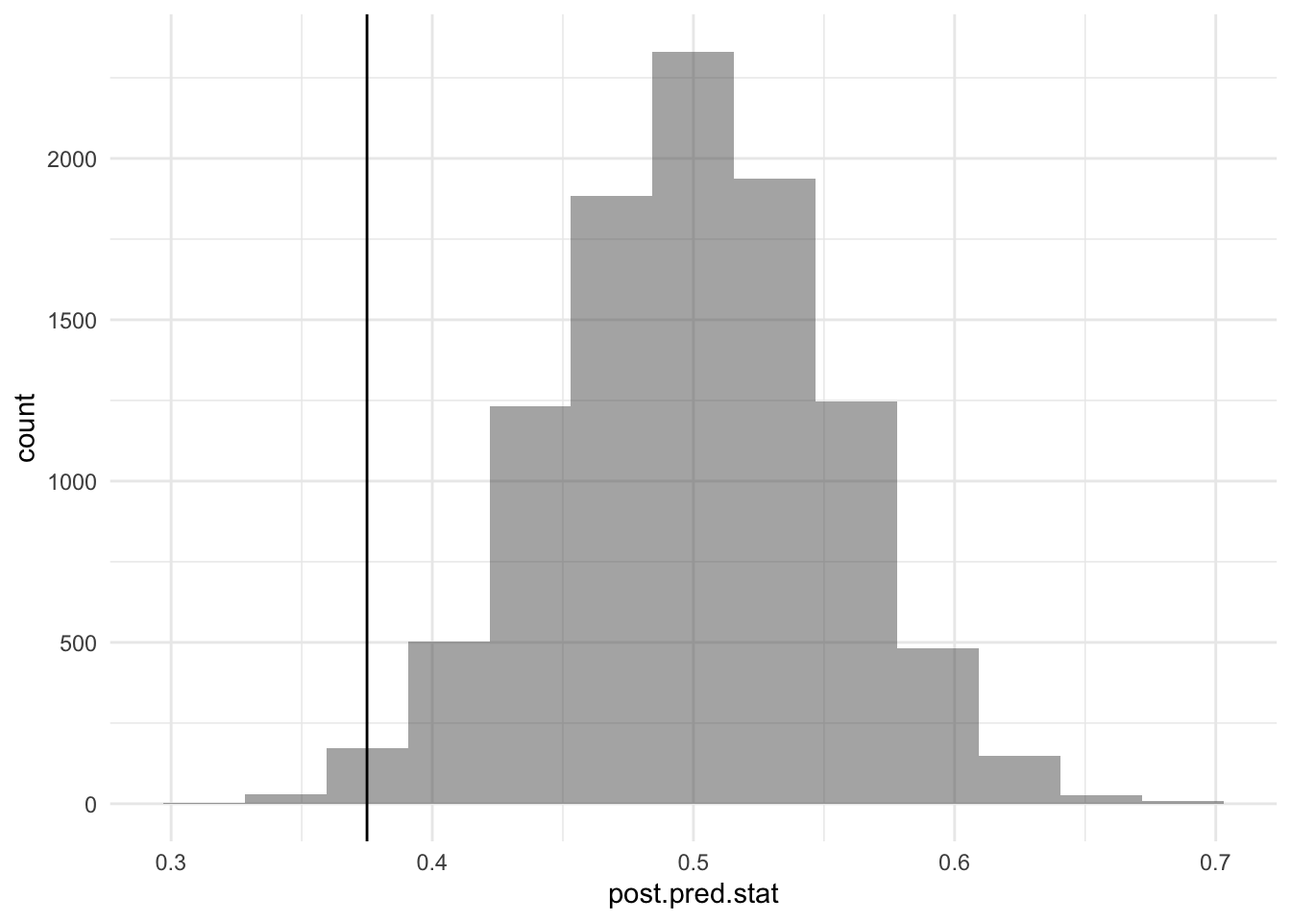
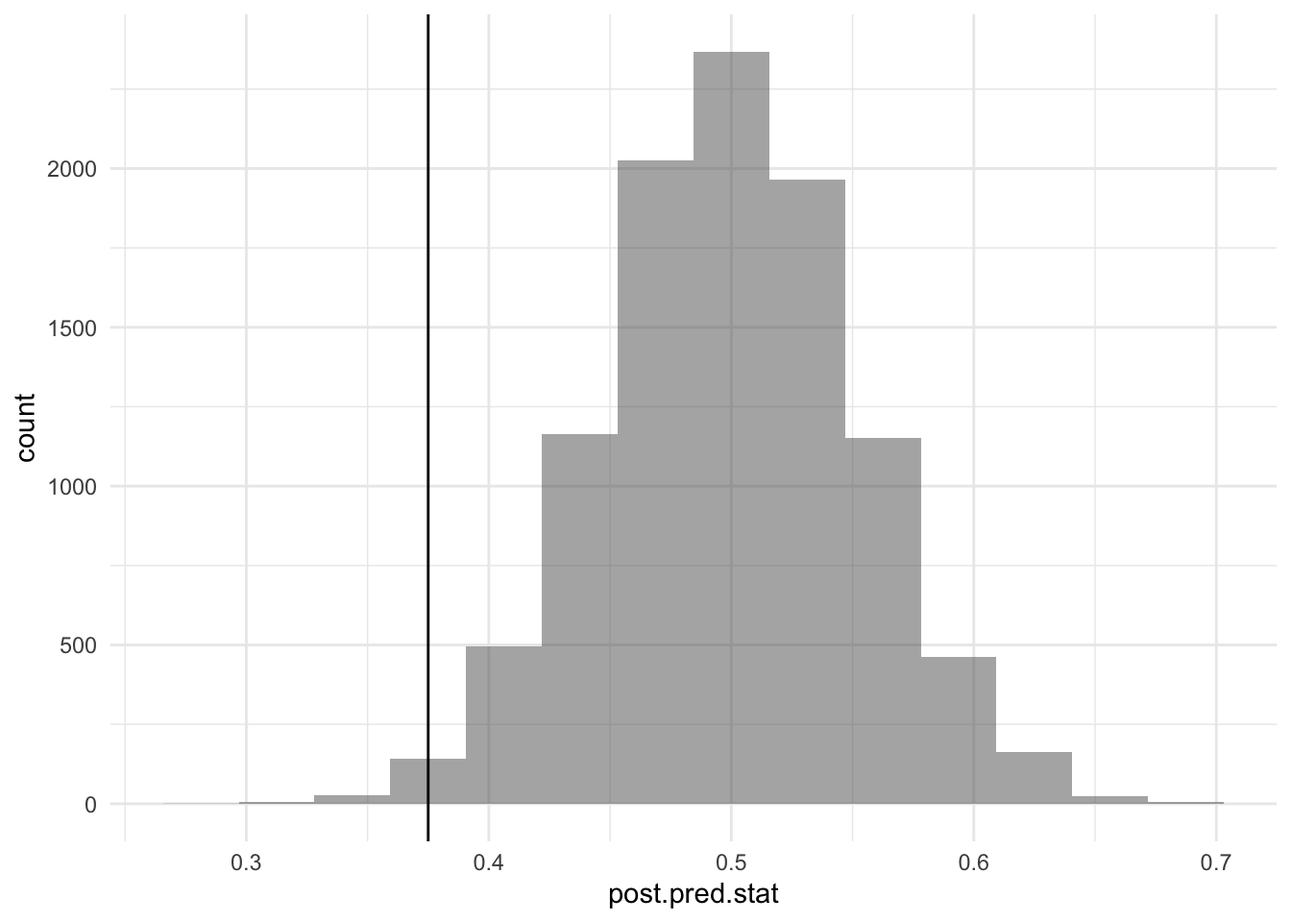
Built site for gh-pages

diff --git a/posts/p-value-screening.html b/posts/p-value-screening.html
@@ -235,14 +235,14 @@ div.csl-indent {
 <p><span class="math display">\[H_0^\tau: \max_i \mu_i \le \tau,\]</span></p>
 <p>which is really just the intersection of <span class="math inline">\(H_{0, i}^\tau: \mu_i \le \tau\)</span>. We are now in the realm of multiple testing!</p>
 <p>A basic idea to test <span class="math inline">\(H_0^\tau\)</span> is of course through Bonferroni correction. However, as we test <span class="math inline">\(H_0^\tau\)</span> for <span class="math inline">\(\tau\)</span> that is larger than many of the observations <span class="math inline">\(X_i\)</span>’s, few of these observations will provide evidence against the null but they count towards the multiplicity nonetheless. This is where we can aim to do better.</p>
-<p><span class="citation" data-cites="zhao_multiple_2018">Zhao et al. (<a href="#ref-zhao_multiple_2018" role="doc-biblioref">2018</a>)</span> suggested to use a <span class="math inline">\(\lambda\)</span> to screen out the <em>p</em>-values under <span class="math inline">\(\lambda\)</span>, divide the remaining <em>p</em>-values by <span class="math inline">\(\lambda\)</span>. (This idea was also rediscovered by <span class="citation" data-cites="ellis_gaining_2020">Ellis et al. (<a href="#ref-ellis_gaining_2020" role="doc-biblioref">2020</a>)</span>.) We have also rediscovered the same idea, and all three groups stated very similar conditions for the <em>p</em>-values, from “uniformly conservative” to “supreuniform”. This <span class="math inline">\(\lambda\)</span> can also be taken as a stopping time: <span class="math inline">\(\lambda\)</span> can go from 0 to 1, revealing any <em>p</em>-value greater than <span class="math inline">\(\lambda\)</span> and stopping based only on this information. It can be shown that this still controls the type I error rate, through a martingale argument not unlike the proof of Benjamini–Hochberg procedure.</p>
+<p><span class="citation" data-cites="zhao2018multiple">Zhao et al. (<a href="#ref-zhao2018multiple" role="doc-biblioref">2018</a>)</span> suggested to use a <span class="math inline">\(\lambda\)</span> to screen out the <em>p</em>-values under <span class="math inline">\(\lambda\)</span>, divide the remaining <em>p</em>-values by <span class="math inline">\(\lambda\)</span>. (This idea was also rediscovered by <span class="citation" data-cites="ellis2020gaining">Ellis et al. (<a href="#ref-ellis2020gaining" role="doc-biblioref">2020</a>)</span>.) We have also rediscovered the same idea, and all three groups stated very similar conditions for the <em>p</em>-values, from “uniformly conservative” to “supreuniform”. This <span class="math inline">\(\lambda\)</span> can also be taken as a stopping time: <span class="math inline">\(\lambda\)</span> can go from 0 to 1, revealing any <em>p</em>-value greater than <span class="math inline">\(\lambda\)</span> and stopping based only on this information. It can be shown that this still controls the type I error rate, through a martingale argument not unlike the proof of Benjamini–Hochberg procedure.</p>
 <p>But Zhao, Small and Su (2018) took an extra step in proposing a beautiful method for selecting this <span class="math inline">\(\lambda\)</span>: Note that the “saving” ones gets from performing the <em>p</em>-value screening is</p>
 <p><span class="math display">\[\frac{F(\lambda)}{\lambda},\]</span></p>
 <p>where <span class="math inline">\(F(\lambda)\)</span> is the averaged distribution of the <em>p</em>-values. The smaller the ratio above, the better the test will perform. Taking the derivatives give</p>
 <p><span class="math display">\[\frac{d}{\lambda} \frac{F(\lambda)}{\lambda} = \frac{F'(\lambda) \lambda - F(\lambda)}{\lambda^2},\]</span></p>
 <p>and a good choice of stopping is when there is no strong evidence that <span class="math inline">\(F'(\lambda) \lambda - F(\lambda) &gt; 0\)</span>. In general this should eventually happen, either when <span class="math inline">\(\lambda\)</span> gets uncomfortably close to 0, or when most of the true nulls have been removed.</p>
 <p>This approach is great for testing, but comes with two caveats when it comes to finding lower confidence bounds: - We do not know if this test is monotone: it is possible that the test rejects at <span class="math inline">\(\tau\)</span> yet accepts at some <span class="math inline">\(\tau' &lt; \tau\)</span>. This may happen if the multiplicity correction is substantially greater for testing <span class="math inline">\(H_0^{\tau'}\)</span> than at <span class="math inline">\(H_0^{\tau}\)</span>. - If we are not using the Zhao, Small and Su (2018) method for picking <span class="math inline">\(\lambda\)</span> and leaving this to an analyst’s discretion, the analyst may not be principled enough. They may be using a <span class="math inline">\(\lambda\)</span>, while wishing that they have used stopped earlier.</p>
-<p>The later point raises a question, similar to that in <span class="citation" data-cites="johari_always_2019">Johari et al. (<a href="#ref-johari_always_2019" role="doc-biblioref">2019</a>)</span> or “spotting time” as suggested by Aaditya Ramdas: Is it possible to allow an analyst stop anytime they want? If so, allowing an analyst to go backwards should come with a price. How do we make an appropriate correction?</p>
+<p>The later point raises a question, similar to that in <span class="citation" data-cites="johari2019always">Johari et al. (<a href="#ref-johari2019always" role="doc-biblioref">2019</a>)</span> or “spotting time” as suggested by Aaditya Ramdas: Is it possible to allow an analyst stop anytime they want? If so, allowing an analyst to go backwards should come with a price. How do we make an appropriate correction?</p>
 <p>Choosing a screening threshold at <span class="math inline">\(\lambda\)</span> is essentially the same as using</p>
 <p><span class="math display">\[n p_{(1)} \frac{F_n(\lambda)}{\lambda}\]</span></p>
 <p>as the test statistic and reject for small values. Here <span class="math inline">\(p_{(1)}\)</span> is the smallest <em>p</em>-value and <span class="math inline">\(F_n\)</span> is the empirical CDF of the <em>p</em>-values. What we want to do is essentially using the test statistic</p>
@@ -311,7 +311,7 @@ n p_{(1)} \min_{\lambda \ge p_{(k)}} \frac{F_n(\lambda)}{\lambda} &amp;=&amp; n 
 <span id="cb1-31"><a href="#cb1-31"></a>  <span class="fu">spotting.power</span>(<span class="fu">c</span>(<span class="fu">rep</span>(<span class="dv">1</span>, <span class="dv">20</span>), <span class="fu">rep</span>(<span class="sc">-</span><span class="dv">4</span>, <span class="dv">80</span>)))</span>
 <span id="cb1-32"><a href="#cb1-32"></a>)</span></code><button title="Copy to Clipboard" class="code-copy-button"><i class="bi"></i></button></pre></div>
 <div class="cell-output cell-output-stdout">
-<pre><code>[1] 0.0062 0.5740 0.7079 0.8851 0.8880 0.0408 0.0648 0.1226</code></pre>
+<pre><code>[1] 0.0076 0.5725 0.7113 0.8851 0.8873 0.0440 0.0621 0.1157</code></pre>
 </div>
 </div>
 <p>Since post condition we are really just using Bonferroni test, we will compare to those particular rows in Table 2 in Zhao, Small, Su (2018):</p>
@@ -387,14 +387,14 @@ n p_{(1)} \min_{\lambda \ge p_{(k)}} \frac{F_n(\lambda)}{\lambda} &amp;=&amp; n 
 
 
 <div id="quarto-appendix" class="default"><section class="quarto-appendix-contents" role="doc-bibliography"><h2 class="anchored quarto-appendix-heading">References</h2><div id="refs" class="references csl-bib-body hanging-indent" role="doc-bibliography">
-<div id="ref-ellis_gaining_2020" class="csl-entry" role="doc-biblioentry">
+<div id="ref-ellis2020gaining" class="csl-entry" role="doc-biblioentry">
 Ellis, J. L., Pecanka, J., and Goeman, J. J. (2020), <span>“Gaining power in multiple testing of interval hypotheses via conditionalization,”</span> <em>Biostatistics</em>, 21, e65–e79.
 </div>
-<div id="ref-johari_always_2019" class="csl-entry" role="doc-biblioentry">
-Johari, R., Pekelis, L., and Walsh, D. J. (2019), <span>“Always <span>Valid</span> <span>Inference</span>: <span>Bringing</span> <span>Sequential</span> <span>Analysis</span> to <span>A</span>/<span>B</span> <span>Testing</span>,”</span> arXiv. <a href="https://doi.org/10.48550/arXiv.1512.04922">https://doi.org/10.48550/arXiv.1512.04922</a>.
+<div id="ref-johari2019always" class="csl-entry" role="doc-biblioentry">
+Johari, R., Pekelis, L., and Walsh, D. J. (2019), <span>“Always <span>Valid Inference</span>: <span>Bringing Sequential Analysis</span> to <span>A</span>/<span>B Testing</span>,”</span> <span>arXiv</span>. <a href="https://doi.org/10.48550/arXiv.1512.04922">https://doi.org/10.48550/arXiv.1512.04922</a>.
 </div>
-<div id="ref-zhao_multiple_2018" class="csl-entry" role="doc-biblioentry">
-Zhao, Q., Small, D. S., and Su, W. J. (2018), <span>“<a href="https://www.tandfonline.com/doi/full/10.1080/01621459.2018.1497499">Multiple testing when many p-values are uniformly conservative, with application to testing qualitative interaction in educational interventions</a>,”</span> <em>Journal of the American Statistical Association</em>.
+<div id="ref-zhao2018multiple" class="csl-entry" role="doc-biblioentry">
+Zhao, Q., Small, D. S., and Su, W. J. (2018), <span>“Multiple testing when many p-values are uniformly conservative, with application to testing qualitative interaction in educational interventions,”</span> <em>Journal of the American Statistical Association</em>.
 </div>
 </div></section></div></main> <!-- /main -->
 <script id="quarto-html-after-body" type="application/javascript">

diff --git a/posts/cal-fire.html b/posts/cal-fire.html
@@ -228,7 +228,7 @@ div.csl-indent {
 
 </header>
 
-<p>I did not really much statistical training in my undergrad days, and my knowledge of statistics is pretty much confined to whatever grad level statistics classes Berkeley offered — 99% of those was frequentist — so I lack the Bayesian exposure that most statistics undergrad would have received. So when something slightly Bayesian (does empirical Bayes count?) showed up, I decided to teach myself using <span class="citation" data-cites="gelman_bayesian_2013">Gelman et al. (<a href="#ref-gelman_bayesian_2013" role="doc-biblioref">2013</a>)</span>.</p>
+<p>I did not really much statistical training in my undergrad days, and my knowledge of statistics is pretty much confined to whatever grad level statistics classes Berkeley offered — 99% of those was frequentist — so I lack the Bayesian exposure that most statistics undergrad would have received. So when something slightly Bayesian (does empirical Bayes count?) showed up, I decided to teach myself using <span class="citation" data-cites="gelman2013bayesian">Gelman et al. (<a href="#ref-gelman2013bayesian" role="doc-biblioref">2013</a>)</span>.</p>
 <p>It is hard to learn something new without any examples, and I happen to stumble upon this tweet:</p>
 <blockquote class="twitter-tweet tw-align-center blockquote">
 <p lang="en" dir="ltr">
@@ -350,15 +350,15 @@ Attaching package: 'rstan'</code></pre>
 <span id="cb17-23"><a href="#cb17-23"></a><span class="fu">summary</span>(fit)<span class="sc">$</span>summary</span></code><button title="Copy to Clipboard" class="code-copy-button"><i class="bi"></i></button></pre></div>
 <div class="cell-output cell-output-stdout">
 <pre><code>             mean      se_mean           sd        2.5%         25%         50%
-alpha 231889.3659 2.555799e+03 156429.48770 -75299.9472 129408.0310 233049.2940
-beta   25733.5127 1.404781e+02   8596.47616   9115.2713  20055.5198  25703.4571
-sigma 445924.8695 9.305492e+02  61220.74160 346959.5348 403589.6614 438579.5227
-lp__    -418.5052 2.221279e-02      1.29507   -421.9191   -419.0704   -418.1779
+alpha 240006.8645 2.539418e+03 1.551917e+05 -68013.3021 137908.1746 239675.9123
+beta   25350.8491 1.403148e+02 8.616489e+03   8211.8978  19674.1566  25370.7932
+sigma 447205.8818 8.786446e+02 6.045076e+04 348075.7837 404490.9808 440528.5524
+lp__    -418.5083 2.070267e-02 1.255783e+00   -421.7157   -419.1005   -418.1869
               75%       97.5%    n_eff      Rhat
-alpha 334325.6033 540090.1390 3746.138 1.0012539
-beta   31280.1606  42845.3024 3744.758 1.0010772
-sigma 480267.7213 585712.6433 4328.311 0.9996836
-lp__    -417.5716   -417.0555 3399.229 0.9998490</code></pre>
+alpha 344199.6611 552040.4477 3734.813 0.9997395
+beta   31137.5510  42277.3893 3770.976 0.9999660
+sigma 481952.3839 586203.5716 4733.442 1.0006884
+lp__    -417.5703   -417.0499 3679.393 1.0005287</code></pre>
 </div>
 </div>
 <p>Since all Bayesians do is do posterior draws, I don’t find it hard to understand the result. But what matters the most to me is that the data is fit well. As BDA would suggest, I should do a posterior predictive check, specifically something that would demonstrate my suspicion that linear model isn’t a good fit. By looking at the time series, I would guess that there are fewer positive residuals than negative ones. So I used the proportion of positive residuals after OLS as the test statistic. Embarrassingly it took me a long time to realize how to do a posterior predictive check for regression, the most basic example in Chapter 14 surprisingly did not emphasize this part.</p>
@@ -417,16 +417,16 @@ lp__    -417.5716   -417.0555 3399.229 0.9998490</code></pre>
 <span id="cb20-22"><a href="#cb20-22"></a></span>
 <span id="cb20-23"><a href="#cb20-23"></a><span class="fu">summary</span>(fit)<span class="sc">$</span>summary</span></code><button title="Copy to Clipboard" class="code-copy-button"><i class="bi"></i></button></pre></div>
 <div class="cell-output cell-output-stdout">
-<pre><code>             mean     se_mean         sd         2.5%         25%         50%
-alpha 12.41544777 0.004275162 0.27007098  11.87620393 12.23849277 12.41825462
-beta   0.04184613 0.000233964 0.01484579   0.01267914  0.03206184  0.04173671
-sigma  0.77212093 0.001529535 0.10615253   0.60072694  0.69614489  0.76017587
-lp__  -7.16476408 0.022649943 1.29577329 -10.55090776 -7.74246366 -6.82755529
-             75%       97.5%    n_eff     Rhat
-alpha 12.5960728 12.93468072 3990.716 1.000362
-beta   0.0515425  0.07137482 4026.324 1.000314
-sigma  0.8361836  1.01335665 4816.612 1.000495
-lp__  -6.2277974 -5.69104645 3272.833 1.001769</code></pre>
+<pre><code>             mean      se_mean         sd         2.5%         25%        50%
+alpha 12.41908326 0.0043276351 0.27139695  11.89028656 12.23991697 12.4138605
+beta   0.04168707 0.0002393191 0.01502463   0.01160145  0.03212815  0.0418301
+sigma  0.76934629 0.0015107737 0.10299026   0.60040099  0.69765468  0.7585032
+lp__  -7.16169509 0.0235539924 1.33780557 -10.65728017 -7.71969447 -6.8090985
+              75%       97.5%    n_eff     Rhat
+alpha 12.59937319 12.95217175 3932.861 1.000875
+beta   0.05154402  0.07100689 3941.421 1.000715
+sigma  0.82879300  0.99799036 4647.222 1.000257
+lp__  -6.20961693 -5.68965437 3225.945 1.000177</code></pre>
 </div>
 </div>
 <p>And we perform the same check to see if the residuals are symmetric.</p>
@@ -493,8 +493,8 @@ lp__  -6.2277974 -5.69104645 3272.833 1.001769</code></pre>
 
 
 <div id="quarto-appendix" class="default"><section class="quarto-appendix-contents" role="doc-bibliography"><h2 class="anchored quarto-appendix-heading">References</h2><div id="refs" class="references csl-bib-body hanging-indent" role="doc-bibliography">
-<div id="ref-gelman_bayesian_2013" class="csl-entry" role="doc-biblioentry">
-Gelman, A., Carlin, J. B., Stern, H. S., Dunson, D. B., Vehtari, A., and Rubin, D. B. (2013), <em>Bayesian <span>Data</span> <span>Analysis</span></em>.
+<div id="ref-gelman2013bayesian" class="csl-entry" role="doc-biblioentry">
+Gelman, A., Carlin, J. B., Stern, H. S., Dunson, D. B., Vehtari, A., and Rubin, D. B. (2013), <em>Bayesian <span>Data Analysis</span></em>.
 </div>
 </div></section></div></main> <!-- /main -->
 <script id="quarto-html-after-body" type="application/javascript">

diff --git a/posts/moment-conditions.html b/posts/moment-conditions.html
@@ -173,7 +173,7 @@ div.csl-indent {
 <p>For the second answer, I still want to know if the approximation is good. Philosophically, this is similar to doing high-dimensional linear regression — when we have <span class="math inline">\(n = 1000\)</span> and <span class="math inline">\(p = 100\)</span>, should we be looking at results on <span class="math inline">\(p = O(n)\)</span> or <span class="math inline">\(p = O(1)\)</span>? The idea here is the same: when we look at our data, we can sometimes tell that the normal approximation is going to fail if the top 10% of your sample accounts adds up to 90% of the sum. Can we have some heuristic that these moment conditions are going to fail?</p>
 <p>More generally, I want to be able to look “empirically check” for moment conditions that look like</p>
 <p><span class="math display">\[\frac{1}{n} \sum_{i=1}^n |X_i|^\beta = o(n^\gamma).\]</span></p>
-<p>In most cases I’ve encountered, <span class="math inline">\(\beta\)</span> would be an integer, and I am including a <span class="math inline">\(\gamma\)</span> there as well to include cases like <span class="citation" data-cites="guo_generalized_2020">Guo and Basse (<a href="#ref-guo_generalized_2020" role="doc-biblioref">2020</a>)</span>, Example 1:</p>
+<p>In most cases I’ve encountered, <span class="math inline">\(\beta\)</span> would be an integer, and I am including a <span class="math inline">\(\gamma\)</span> there as well to include cases like <span class="citation" data-cites="guo2020generalized">Guo and Basse (<a href="#ref-guo2020generalized" role="doc-biblioref">2020</a>)</span>, Example 1:</p>
 <p><span class="math display">\[\frac{1}{n} \sum_{i=1}^n X_i^4 = o(n).\]</span></p>
 <p>Below are back-of-the-envelope calculations that I’ve been using recently to reason around these conditions. We are going to start with the stable distribution, with tail index <span class="math inline">\(\alpha\)</span>. Recall that if <span class="math inline">\(X, Y \sim \text{Stable}(\alpha)\)</span> independently, then <span class="math inline">\(X + Y \sim 2^{1/\alpha} \cdot \text{Stable}(\alpha)\)</span>. Now in cases where the generalized Central Limit Theorem works, we will be able to get, with some scaling and some choice of <span class="math inline">\(\alpha\)</span>,</p>
 <p><span class="math display">\[\frac{1}{n/2} \sum_{i=1}^{n/2} |X_i|^\beta, \frac{1}{n/2} \sum_{i=n/2 + 1}^{n} |X_i|^\beta \sim \text{Stable}(\alpha),\]</span></p>
@@ -183,17 +183,17 @@ div.csl-indent {
 <p><span class="math display">\[\frac{1}{n} \sum_{i=1}^n |X_i|^\beta = O_p((2^{1/\alpha - 1})^{\log_2 n}) = O_p(n^{1/\alpha - 1}).\]</span></p>
 <p>So for example, in the case of Guo and Basse (2021), Example 1, we will need <span class="math inline">\(X_i^\beta\)</span> to be no more heavy-tailed than <span class="math inline">\(\alpha = 1/2\)</span>. But now, since <span class="math inline">\(X \sim \text{Stable}(\alpha)\)</span> is roughly the boundary where <span class="math inline">\(\mathbb{E}[X^\alpha]\)</span> exists, Guo and Basse (2021) should be roughly the same as asking the tail index to be at least 2, pretty much the same as asking that Central Limit Theorem applies.</p>
 <p>I think the heuristics above can be made a bit more rigorous too, probably through <span class="math inline">\(\mathbb{P}[X &gt; n^a] &gt; n^{-b}\)</span> for some choice of <span class="math inline">\(a\)</span> and <span class="math inline">\(b\)</span>, these choices of <span class="math inline">\(a\)</span> and <span class="math inline">\(b\)</span> can perhaps be compared to a generalized Pareto distribution.</p>
-<p>Finally to check this, without getting into the subtleties of Hill estimator or <span class="citation" data-cites="clauset_power-law_2009">Clauset et al. (<a href="#ref-clauset_power-law_2009" role="doc-biblioref">2009</a>)</span>, we can look at some high quantiles and take the ratio. For example, a rough estimate of the tail index would be <span class="math inline">\(1 / \log_{10}(q_{0.999} / q_{0.99})\)</span>.</p>
+<p>Finally to check this, without getting into the subtleties of Hill estimator or <span class="citation" data-cites="clauset2009powerlaw">Clauset et al. (<a href="#ref-clauset2009powerlaw" role="doc-biblioref">2009</a>)</span>, we can look at some high quantiles and take the ratio. For example, a rough estimate of the tail index would be <span class="math inline">\(1 / \log_{10}(q_{0.999} / q_{0.99})\)</span>.</p>
 
 
 
 
 <div id="quarto-appendix" class="default"><section class="quarto-appendix-contents" role="doc-bibliography"><h2 class="anchored quarto-appendix-heading">References</h2><div id="refs" class="references csl-bib-body hanging-indent" role="doc-bibliography">
-<div id="ref-clauset_power-law_2009" class="csl-entry" role="doc-biblioentry">
-Clauset, A., Shalizi, C. R., and Newman, M. E. J. (2009), <span>“Power-<span>Law</span> <span>Distributions</span> in <span>Empirical</span> <span>Data</span>,”</span> <em>SIAM Review</em>, 51, 661–703. <a href="https://doi.org/10.1137/070710111">https://doi.org/10.1137/070710111</a>.
+<div id="ref-clauset2009powerlaw" class="csl-entry" role="doc-biblioentry">
+Clauset, A., Shalizi, C. R., and Newman, M. E. J. (2009), <span>“Power-<span>Law Distributions</span> in <span>Empirical Data</span>,”</span> <em>SIAM Review</em>, 51, 661–703. <a href="https://doi.org/10.1137/070710111">https://doi.org/10.1137/070710111</a>.
 </div>
-<div id="ref-guo_generalized_2020" class="csl-entry" role="doc-biblioentry">
-Guo, K., and Basse, G. (2020), <span>“<a href="http://arxiv.org/abs/2004.11615">The <span>Generalized</span> <span>Oaxaca</span>-<span>Blinder</span> <span>Estimator</span></a>.”</span>
+<div id="ref-guo2020generalized" class="csl-entry" role="doc-biblioentry">
+Guo, K., and Basse, G. (2020), <span>“The <span>Generalized Oaxaca-Blinder Estimator</span>.”</span> <a href="https://doi.org/10.1080/01621459.2021.1941053">https://doi.org/10.1080/01621459.2021.1941053</a>.
 </div>
 </div></section></div></main> <!-- /main -->
 <script id="quarto-html-after-body" type="application/javascript">

diff --git a/posts/asymptotic-selective-inference.html b/posts/asymptotic-selective-inference.html
@@ -229,13 +229,13 @@ div.csl-indent {
 
 </header>
 
-<p>Following a paper by <span class="citation" data-cites="lee_exact_2016">Lee et al. (<a href="#ref-lee_exact_2016" role="doc-biblioref">2016</a>)</span> on the correcting for the selection bias after lasso-based selection, a natural progression is to consider general penalized likelihood selections. In GLM, we are at least provided with a sufficient statistics, but this would not be the case in a more general likelihood setting, rendering the description of the selection event a lot more blurry.</p>
+<p>Following a paper by <span class="citation" data-cites="lee2016exact">Lee et al. (<a href="#ref-lee2016exact" role="doc-biblioref">2016</a>)</span> on the correcting for the selection bias after lasso-based selection, a natural progression is to consider general penalized likelihood selections. In GLM, we are at least provided with a sufficient statistics, but this would not be the case in a more general likelihood setting, rendering the description of the selection event a lot more blurry.</p>
 <p>Most specifically, the set up is as follows: we have a matrix <span class="math inline">\(X\)</span> consisting of <span class="math inline">\(n\)</span> row of covariates, <span class="math inline">\(Y\)</span> a vector consisting of all the responses. We assume the model, given by the log-likelihood below,</p>
 <p><span class="math display">\[\sum_{i=1}^n \ell(\theta_n; Y_n, X_n).\]</span></p>
 <p>Here we will not move into high-dimensional regime and thus assumes <span class="math inline">\(\theta_n\)</span> to have dimension <span class="math display">\[d\]</span>. Subsequently, we perform selection based on maximizing</p>
 <p><span class="math display">\[\sum_{i=1}^n \ell(\theta_n; Y_n, X_n) - \lambda_n \|\theta_n\|_1,\]</span></p>
 <p>with some tuning parameter <span class="math inline">\(\lambda_n\)</span>.</p>
-<p>Around three weeks ago, Will and I came up with a way to tackle this problem — together with a non-exhaustive, non-optimized list of conditions needed. Unfortunately shortly after Will discovered a paper by <span class="citation" data-cites="taylor_postselection_2017">Taylor and Tibshirani (<a href="#ref-taylor_postselection_2017" role="doc-biblioref">2017</a>)</span> that arrived at an almost identical solution. While our result might no longer be groundbreaking, we hope that this post will provide a different perspective from Taylor and Tibshirani (2017), and assist anyone who happens to also be reading Taylor and Tibshirani (2017).</p>
+<p>Around three weeks ago, Will and I came up with a way to tackle this problem — together with a non-exhaustive, non-optimized list of conditions needed. Unfortunately shortly after Will discovered a paper by <span class="citation" data-cites="taylor2017post">Taylor and Tibshirani (<a href="#ref-taylor2017post" role="doc-biblioref">2017</a>)</span> that arrived at an almost identical solution. While our result might no longer be groundbreaking, we hope that this post will provide a different perspective from Taylor and Tibshirani (2017), and assist anyone who happens to also be reading Taylor and Tibshirani (2017).</p>
 <p>The problem has two main hurdles: - approximating the selection event in a reasonable yet theoretically valid manner; - choosing a test statistic with a nice asymptotic distribution.</p>
 <p>We can make both decisions at once by considering the selection event. In GLM, with a sufficient statistic, the selection event will always be measurable with respect to this sufficient statistic. This measurability requirement results in fuzzy edges if we plot out the selection event based on a non-sufficient statistic.</p>
 <p>We don’t have this sufficient statistic anymore in a general likelihood setting. Conventionally, both the score at a fixed parameter and the MLE are thought of as ‘asymptotically sufficient’ without a proper definition. Since we are looking into asymptotics anyways, these two statistic seems perfect for our use. A bonus is that their asymptotic distributions are well known.</p>
@@ -417,11 +417,11 @@ div.csl-indent {
 
 
 <div id="quarto-appendix" class="default"><section class="quarto-appendix-contents" role="doc-bibliography"><h2 class="anchored quarto-appendix-heading">References</h2><div id="refs" class="references csl-bib-body hanging-indent" role="doc-bibliography">
-<div id="ref-lee_exact_2016" class="csl-entry" role="doc-biblioentry">
-Lee, J. D., Sun, D. L., Sun, Y., and Taylor, J. E. (2016), <span>“<a href="http://projecteuclid.org/euclid.aos/1460381681">Exact post-selection inference, with application to the lasso</a>,”</span> <em>The Annals of Statistics</em>, 44, 907–927.
+<div id="ref-lee2016exact" class="csl-entry" role="doc-biblioentry">
+Lee, J. D., Sun, D. L., Sun, Y., and Taylor, J. E. (2016), <span>“Exact post-selection inference, with application to the lasso,”</span> <em>The Annals of Statistics</em>, 44, 907–927.
 </div>
-<div id="ref-taylor_postselection_2017" class="csl-entry" role="doc-biblioentry">
-Taylor, J. E., and Tibshirani, R. J. (2017), <span>“<a href="http://onlinelibrary.wiley.com/doi/10.1002/cjs.11313/full">Post‐selection inference for ℓ1‐penalized likelihood models</a>,”</span> <em>The Canadian Journal of Statistics</em>, 19, 1212.
+<div id="ref-taylor2017post" class="csl-entry" role="doc-biblioentry">
+Taylor, J. E., and Tibshirani, R. J. (2017), <span>“Post-selection inference for <span><span class="math inline">\(\mathscr{l}\)</span></span>1-penalized likelihood models,”</span> <em>The Canadian Journal of Statistics</em>, 19, 1212.
 </div>
 </div></section></div></main> <!-- /main -->
 <script id="quarto-html-after-body" type="application/javascript">

diff --git a/posts/binomial-ranking.html b/posts/binomial-ranking.html
@@ -246,7 +246,7 @@ div.csl-indent {
 </section>
 <section id="setup" class="level2">
 <h2 class="anchored" data-anchor-id="setup">Setup</h2>
-<p>Of course there are many other factors, but we can consider an idealized model where the number of patients, <span class="math inline">\(n_i\)</span> in each country is predetermined, but the number of deaths, <span class="math inline">\(X_i\)</span> is random and comes from a binomial draw: <span class="math display">\[X_i \sim \text{Binomial}(n_i, p_i),\]</span> where <span class="math inline">\(p_i\)</span> represent the chance of a patient dying in region <span class="math inline">\(i\)</span>. We would then want to provide simultaneous confidence intervals for the rank of region <span class="math inline">\(i\)</span>, <span class="math inline">\(r_i\)</span>, as defined in <span class="citation" data-cites="al_mohamad_simultaneous_2022">Al Mohamad et al. (<a href="#ref-al_mohamad_simultaneous_2022" role="doc-biblioref">2022</a>)</span>: <span class="math display">\[r_i = 1 + \#\{j \ne i: p_j &lt; p_i\}\]</span> There is an obvious Bayesian way to achieve this. By setting up a reasonable prior, we can perform posterior draws of <span class="math inline">\(p_i\)</span> and search for confidence intervals of ranks that covers <span class="math inline">\((1 - \alpha)\)</span> of the posterior draws. Naturally this can be extended to an empirical Bayes way as well, as suggested in one of the comments in <a href="https://stats.stackexchange.com/questions/157437/ranking-based-on-binomial-data-example-website-conversions">this Cross Validated thread</a>. We want to focus on strict frequentist methods here.</p>
+<p>Of course there are many other factors, but we can consider an idealized model where the number of patients, <span class="math inline">\(n_i\)</span> in each country is predetermined, but the number of deaths, <span class="math inline">\(X_i\)</span> is random and comes from a binomial draw: <span class="math display">\[X_i \sim \text{Binomial}(n_i, p_i),\]</span> where <span class="math inline">\(p_i\)</span> represent the chance of a patient dying in region <span class="math inline">\(i\)</span>. We would then want to provide simultaneous confidence intervals for the rank of region <span class="math inline">\(i\)</span>, <span class="math inline">\(r_i\)</span>, as defined in <span class="citation" data-cites="almohamad2022simultaneous">Al Mohamad et al. (<a href="#ref-almohamad2022simultaneous" role="doc-biblioref">2022</a>)</span>: <span class="math display">\[r_i = 1 + \#\{j \ne i: p_j &lt; p_i\}\]</span> There is an obvious Bayesian way to achieve this. By setting up a reasonable prior, we can perform posterior draws of <span class="math inline">\(p_i\)</span> and search for confidence intervals of ranks that covers <span class="math inline">\((1 - \alpha)\)</span> of the posterior draws. Naturally this can be extended to an empirical Bayes way as well, as suggested in one of the comments in <a href="https://stats.stackexchange.com/questions/157437/ranking-based-on-binomial-data-example-website-conversions">this Cross Validated thread</a>. We want to focus on strict frequentist methods here.</p>
 </section>
 <section id="data" class="level2">
 <h2 class="anchored" data-anchor-id="data">Data</h2>
@@ -1098,8 +1098,8 @@ div.csl-indent {
 </section>
 
 <div id="quarto-appendix" class="default"><section class="quarto-appendix-contents" role="doc-bibliography"><h2 class="anchored quarto-appendix-heading">References</h2><div id="refs" class="references csl-bib-body hanging-indent" role="doc-bibliography">
-<div id="ref-al_mohamad_simultaneous_2022" class="csl-entry" role="doc-biblioentry">
-Al Mohamad, D., Goeman, J. J., and Zwet, E. W. van (2022), <span>“Simultaneous <span>Confidence</span> <span>Intervals</span> for <span>Ranks</span> <span>With</span> <span>Application</span> to <span>Ranking</span> <span>Institutions</span>,”</span> <em>Biometric Methodology</em>, 78, 238–247. <a href="https://doi.org/10.1111/biom.13419">https://doi.org/10.1111/biom.13419</a>.
+<div id="ref-almohamad2022simultaneous" class="csl-entry" role="doc-biblioentry">
+Al Mohamad, D., Goeman, J. J., and van Zwet, E. W. (2022), <span>“Simultaneous <span>Confidence Intervals</span> for <span>Ranks With Application</span> to <span>Ranking Institutions</span>,”</span> <em>Biometric Methodology</em>, 78, 238–247. <a href="https://doi.org/10.1111/biom.13419">https://doi.org/10.1111/biom.13419</a>.
 </div>
 </div></section></div></main> <!-- /main -->
 <script id="quarto-html-after-body" type="application/javascript">

diff --git a/posts.html b/posts.html
@@ -161,7 +161,7 @@ ul.task-list li input[type="checkbox"] {
 
 <div class="quarto-listing quarto-listing-container-default" id="listing-listing">
 <div class="list quarto-listing-default">
-<div class="quarto-post image-right" data-index="0" data-categories="multiple testing" data-listing-date-sort="1661583600000" data-listing-file-modified-sort="1662149807622" data-listing-reading-time-sort="4.855">
+<div class="quarto-post image-right" data-index="0" data-categories="multiple testing" data-listing-date-sort="1661583600000" data-listing-file-modified-sort="1662229847868" data-listing-reading-time-sort="4.855">
 <div class="body">
 <a href="./posts/nudge-meta-analysis.html">
 <h3 class="no-anchor listing-title">
@@ -193,7 +193,7 @@ Kenneth Hung
 </a>
 </div>
 </div>
-<div class="quarto-post image-right" data-index="1" data-categories="applied statistics" data-listing-date-sort="1649660400000" data-listing-file-modified-sort="1662149829268" data-listing-reading-time-sort="3.08">
+<div class="quarto-post image-right" data-index="1" data-categories="applied statistics" data-listing-date-sort="1649660400000" data-listing-file-modified-sort="1662229880184" data-listing-reading-time-sort="3.08">
 <div class="body">
 <a href="./posts/moment-conditions.html">
 <h3 class="no-anchor listing-title">
@@ -225,7 +225,7 @@ Kenneth Hung
 </a>
 </div>
 </div>
-<div class="quarto-post image-right" data-index="2" data-categories="statistical computing" data-listing-date-sort="1601017200000" data-listing-file-modified-sort="1662149864356" data-listing-reading-time-sort="4.49">
+<div class="quarto-post image-right" data-index="2" data-categories="statistical computing" data-listing-date-sort="1601017200000" data-listing-file-modified-sort="1662229899497" data-listing-reading-time-sort="4.49">
 <div class="body">
 <a href="./posts/cal-fire.html">
 <h3 class="no-anchor listing-title">
@@ -289,7 +289,7 @@ Kenneth Hung
 </a>
 </div>
 </div>
-<div class="quarto-post image-right" data-index="4" data-categories="multiple testing" data-listing-date-sort="1581753600000" data-listing-file-modified-sort="1662149890619" data-listing-reading-time-sort="6.355">
+<div class="quarto-post image-right" data-index="4" data-categories="multiple testing" data-listing-date-sort="1581753600000" data-listing-file-modified-sort="1662229913888" data-listing-reading-time-sort="6.355">
 <div class="body">
 <a href="./posts/binomial-ranking.html">
 <h3 class="no-anchor listing-title">
@@ -321,7 +321,7 @@ Kenneth Hung
 </a>
 </div>
 </div>
-<div class="quarto-post image-right" data-index="5" data-categories="multiple testing,selective inference" data-listing-date-sort="1537513200000" data-listing-file-modified-sort="1662149788190" data-listing-reading-time-sort="8.305">
+<div class="quarto-post image-right" data-index="5" data-categories="multiple testing,selective inference" data-listing-date-sort="1537513200000" data-listing-file-modified-sort="1662229817768" data-listing-reading-time-sort="8.305">
 <div class="body">
 <a href="./posts/p-value-screening.html">
 <h3 class="no-anchor listing-title">
@@ -356,7 +356,7 @@ Kenneth Hung
 </a>
 </div>
 </div>
-<div class="quarto-post image-right" data-index="6" data-categories="selective inference" data-listing-date-sort="1491807600000" data-listing-file-modified-sort="1662149907508" data-listing-reading-time-sort="9.43">
+<div class="quarto-post image-right" data-index="6" data-categories="selective inference" data-listing-date-sort="1491807600000" data-listing-file-modified-sort="1662229931330" data-listing-reading-time-sort="9.43">
 <div class="body">
 <a href="./posts/asymptotic-selective-inference.html">
 <h3 class="no-anchor listing-title">

diff --git a/posts/nudge-meta-analysis.html b/posts/nudge-meta-analysis.html
@@ -234,7 +234,7 @@ div.csl-indent {
 <li>Does any “nudging” experiment have real effect? How many of the experiments?</li>
 <li>What happens if we counter the file-drawer effect with a more stringent threshold?</li>
 </ul>
-<p>So first of all, we are going to only look at <em>p</em>-values that are smaller than <span class="math inline">\(0.05\)</span>, and adjust them by division by <span class="math inline">\(0.05\)</span>, as in our aforementioned paper, or <span class="citation" data-cites="zhao_multiple_2018">Zhao et al. (<a href="#ref-zhao_multiple_2018" role="doc-biblioref">2018</a>)</span>.</p>
+<p>So first of all, we are going to only look at <em>p</em>-values that are smaller than <span class="math inline">\(0.05\)</span>, and adjust them by division by <span class="math inline">\(0.05\)</span>, as in our aforementioned paper, or <span class="citation" data-cites="zhao2018multiple">Zhao et al. (<a href="#ref-zhao2018multiple" role="doc-biblioref">2018</a>)</span>.</p>
 <div class="cell" data-layout-align="center">
 <details>
 <summary>Show the code</summary>
@@ -405,8 +405,8 @@ div.csl-indent {
 
 
 <div id="quarto-appendix" class="default"><section class="quarto-appendix-contents" role="doc-bibliography"><h2 class="anchored quarto-appendix-heading">References</h2><div id="refs" class="references csl-bib-body hanging-indent" role="doc-bibliography">
-<div id="ref-zhao_multiple_2018" class="csl-entry" role="doc-biblioentry">
-Zhao, Q., Small, D. S., and Su, W. J. (2018), <span>“<a href="https://www.tandfonline.com/doi/full/10.1080/01621459.2018.1497499">Multiple testing when many p-values are uniformly conservative, with application to testing qualitative interaction in educational interventions</a>,”</span> <em>Journal of the American Statistical Association</em>.
+<div id="ref-zhao2018multiple" class="csl-entry" role="doc-biblioentry">
+Zhao, Q., Small, D. S., and Su, W. J. (2018), <span>“Multiple testing when many p-values are uniformly conservative, with application to testing qualitative interaction in educational interventions,”</span> <em>Journal of the American Statistical Association</em>.
 </div>
 </div></section></div></main> <!-- /main -->
 <script id="quarto-html-after-body" type="application/javascript">
